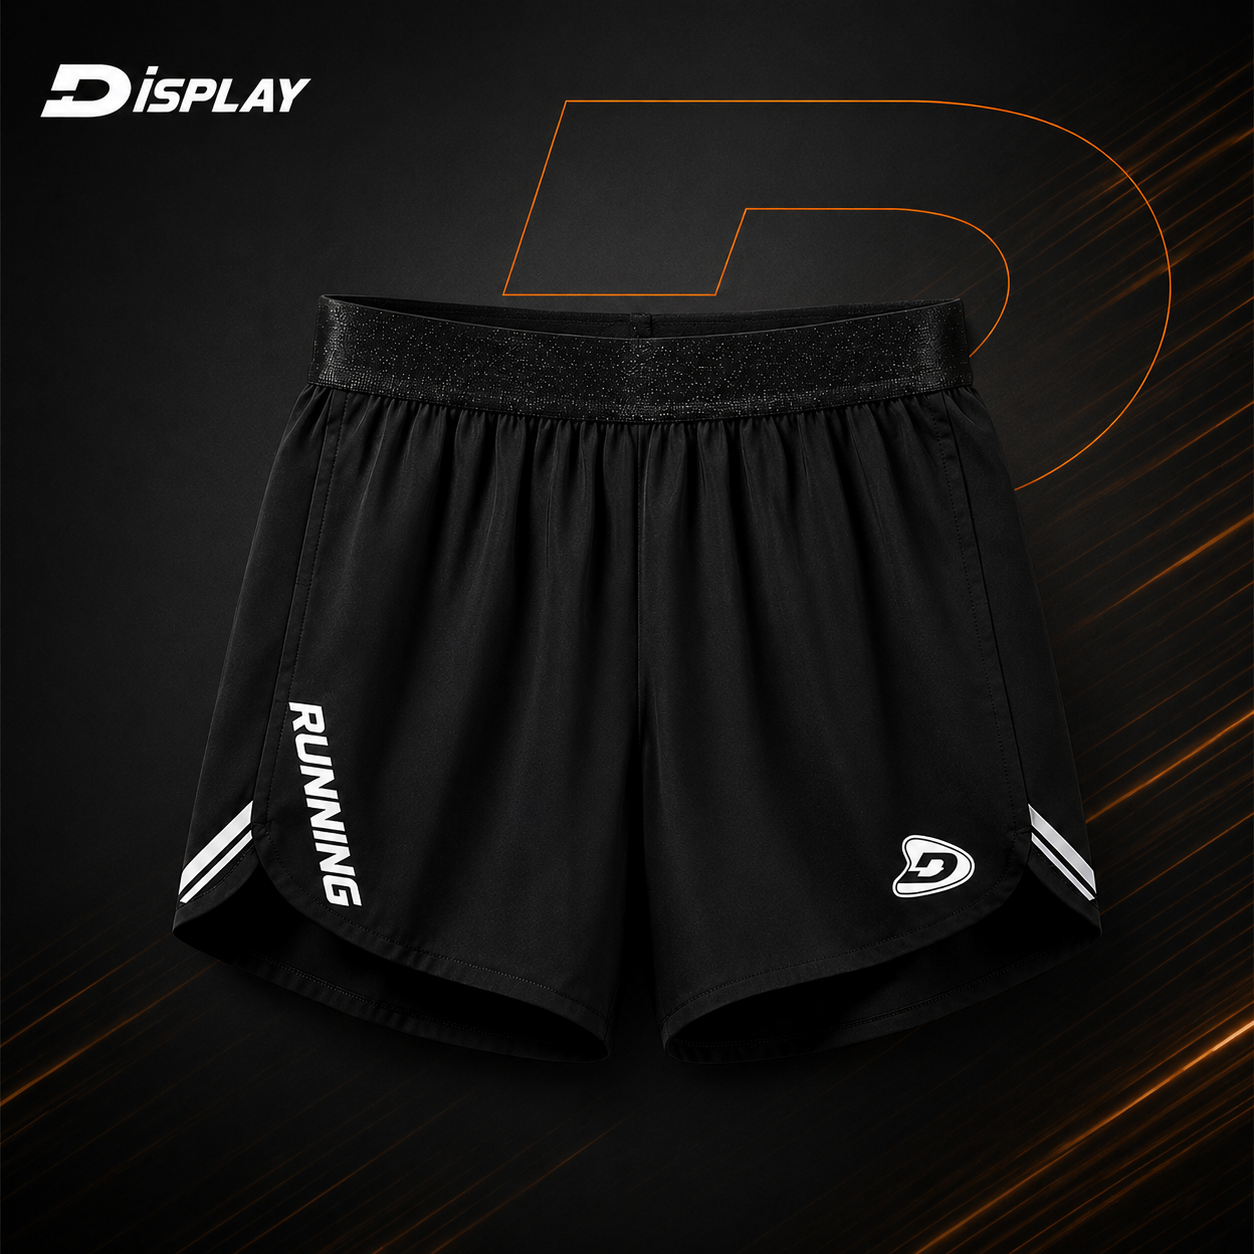
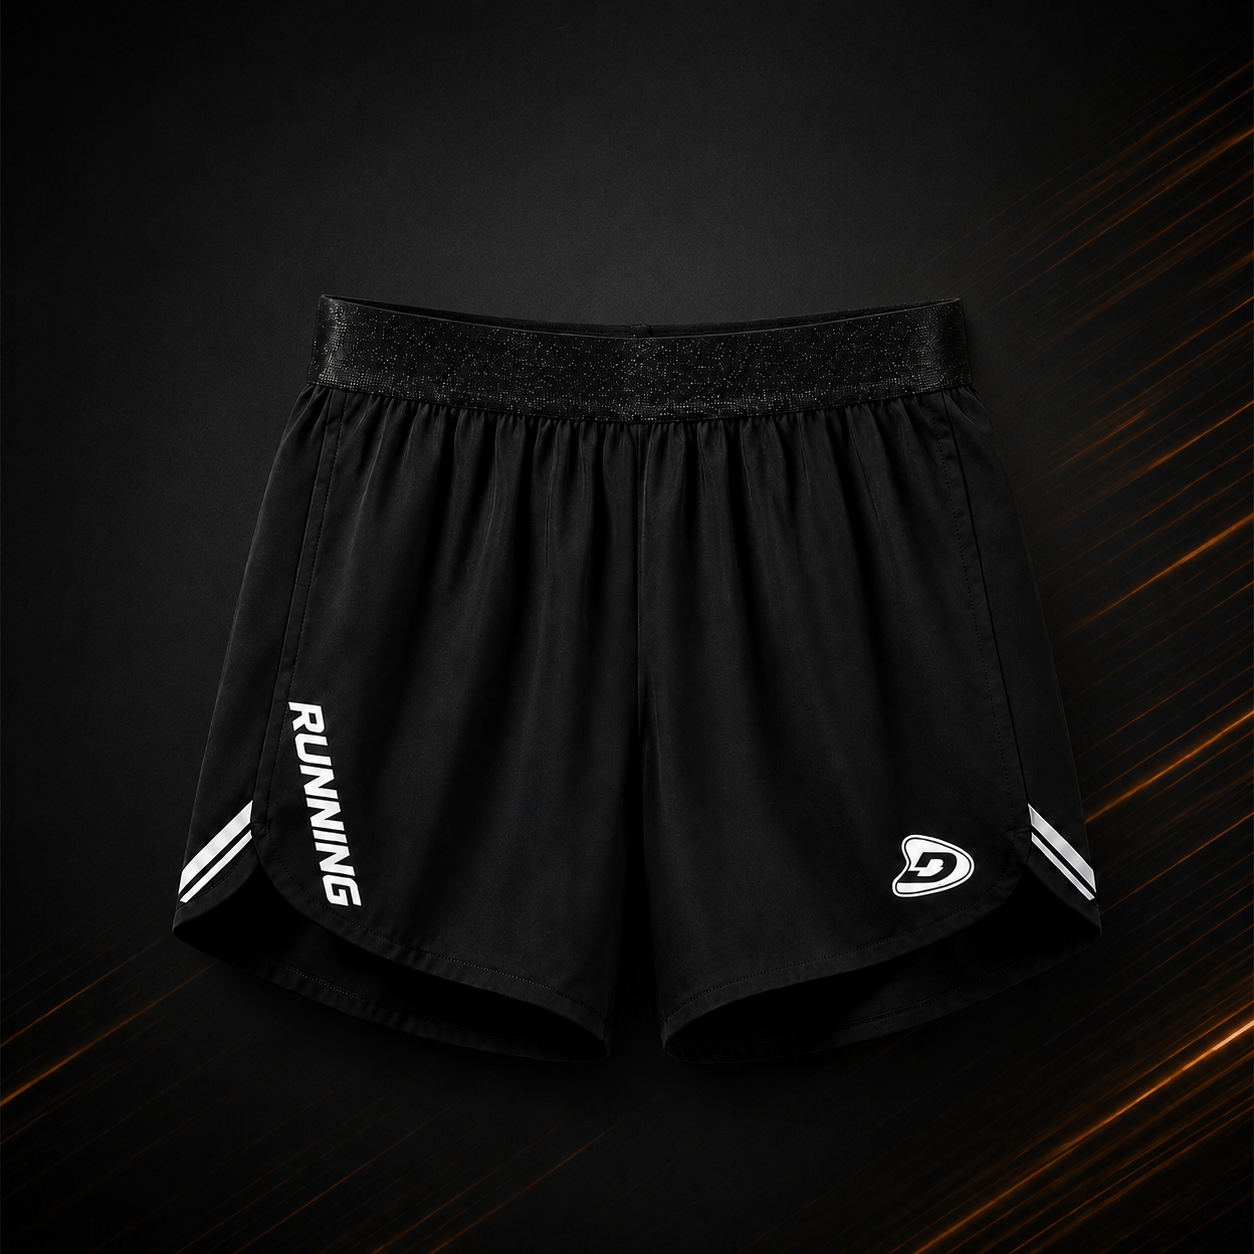
chore(pantaloneta-detalle): reemplazar imagen por nueva version
Cliente proveyo nueva version del hero shot de la pantaloneta.
Reemplazado assets/products/pantaloneta-detalle.png.

CACHE BUSTING: v=28 -> v=29

diff --git a/producto.html b/producto.html
@@ -28,7 +28,7 @@
 <link rel="preconnect" href="https://fonts.googleapis.com">
 <link rel="preconnect" href="https://fonts.gstatic.com" crossorigin>
 <link href="https://fonts.googleapis.com/css2?family=Bebas+Neue&family=Montserrat:wght@200;300;400;500;600;700&family=Space+Mono:wght@400;700&display=swap" rel="stylesheet">
-<link rel="stylesheet" href="assets/styles.css?v=28" />
+<link rel="stylesheet" href="assets/styles.css?v=29" />
 </head>
 <body>
 
@@ -148,9 +148,9 @@
   <svg width="28" height="28" viewBox="0 0 24 24" fill="currentColor" aria-hidden="true"><path d="M.057 24l1.687-6.163a11.867 11.867 0 01-1.587-5.946C.16 5.335 5.495 0 12.05 0a11.817 11.817 0 018.413 3.488 11.824 11.824 0 013.48 8.414c-.003 6.557-5.338 11.892-11.893 11.892a11.9 11.9 0 01-5.688-1.448L.057 24zm6.597-3.807c1.676.995 3.276 1.591 5.392 1.592 5.448 0 9.886-4.434 9.889-9.885.002-5.462-4.415-9.89-9.881-9.892-5.452 0-9.887 4.434-9.889 9.884-.001 2.225.651 3.891 1.746 5.634l-.999 3.648 3.742-.981z"/></svg>
 </a>
 
-<script src="assets/config.js?v=28"></script>
-<script src="assets/products.js?v=28"></script>
-<script src="assets/product-detail.js?v=28"></script>
-<script src="assets/script.js?v=28"></script>
+<script src="assets/config.js?v=29"></script>
+<script src="assets/products.js?v=29"></script>
+<script src="assets/product-detail.js?v=29"></script>
+<script src="assets/script.js?v=29"></script>
 </body>
 </html>

diff --git a/index.html b/index.html
@@ -40,7 +40,7 @@
 <link rel="preconnect" href="https://fonts.gstatic.com" crossorigin>
 <link rel="preload" as="style" href="https://fonts.googleapis.com/css2?family=Bebas+Neue&family=Montserrat:wght@200;300;400;500;600;700&family=Space+Mono:wght@400;700&display=swap" />
 <link href="https://fonts.googleapis.com/css2?family=Bebas+Neue&family=Montserrat:wght@200;300;400;500;600;700&family=Space+Mono:wght@400;700&display=swap" rel="stylesheet">
-<link rel="stylesheet" href="assets/styles.css?v=28" />
+<link rel="stylesheet" href="assets/styles.css?v=29" />
 
 <!-- JSON-LD: Organization + LocalBusiness + WebSite -->
 <script type="application/ld+json">
@@ -398,8 +398,8 @@
   <svg width="28" height="28" viewBox="0 0 24 24" fill="currentColor" aria-hidden="true"><path d="M.057 24l1.687-6.163a11.867 11.867 0 01-1.587-5.946C.16 5.335 5.495 0 12.05 0a11.817 11.817 0 018.413 3.488 11.824 11.824 0 013.48 8.414c-.003 6.557-5.338 11.892-11.893 11.892a11.9 11.9 0 01-5.688-1.448L.057 24zm6.597-3.807c1.676.995 3.276 1.591 5.392 1.592 5.448 0 9.886-4.434 9.889-9.885.002-5.462-4.415-9.89-9.881-9.892-5.452 0-9.887 4.434-9.889 9.884-.001 2.225.651 3.891 1.746 5.634l-.999 3.648 3.742-.981z"/></svg>
 </a>
 
-<script src="assets/config.js?v=28"></script>
-<script src="assets/products.js?v=28"></script>
-<script src="assets/script.js?v=28"></script>
+<script src="assets/config.js?v=29"></script>
+<script src="assets/products.js?v=29"></script>
+<script src="assets/script.js?v=29"></script>
 </body>
 </html>